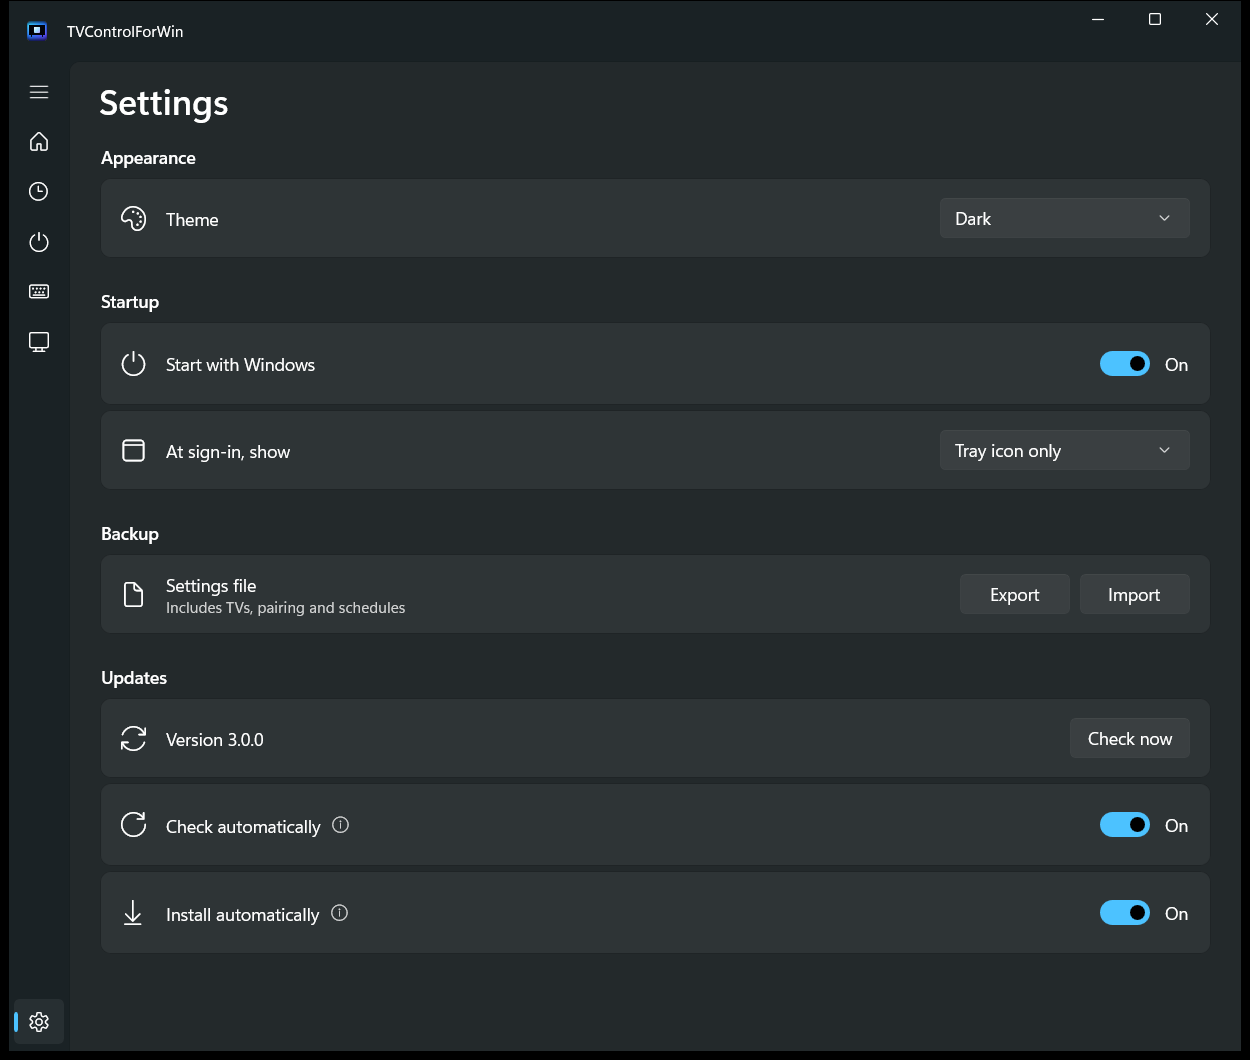
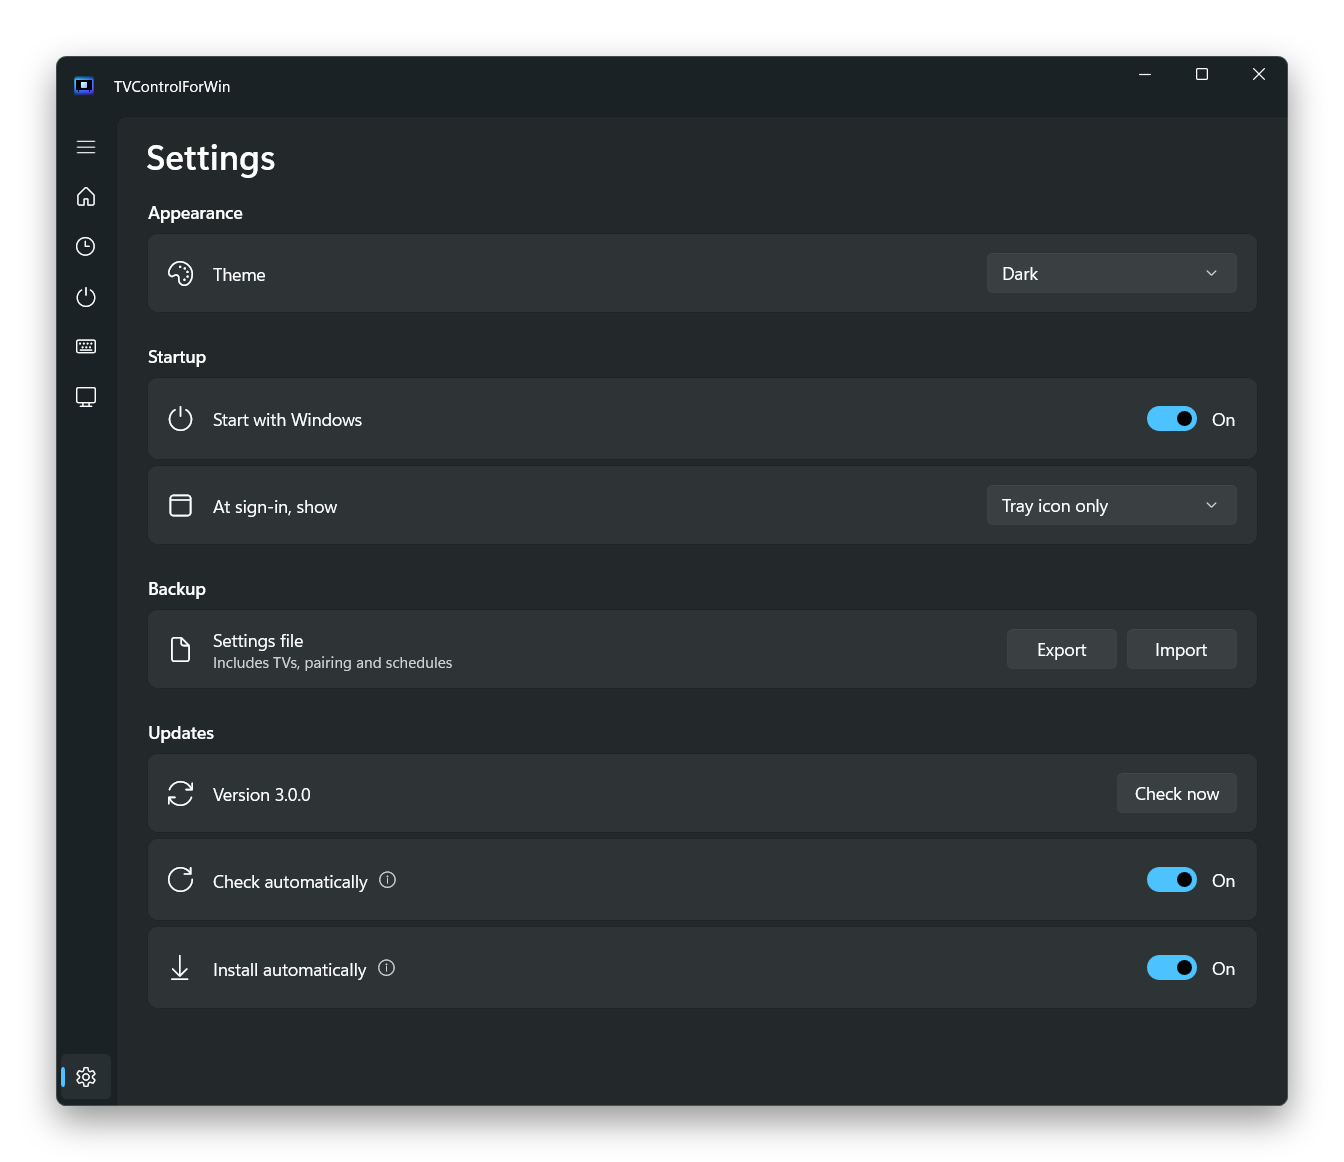
README: Windows 11 style screenshots, overlay in the header, contributing guide
- Screenshots: black capture borders trimmed, rounded corners and a soft
  shadow, on a transparent background.
- The on-screen display, captured live, shown under the main screenshot.
- Download button with the same rounded look as the badges.
- Contributing section and CONTRIBUTING.md, with other TV brands first.

diff --git a/README.md b/README.md
@@ -18,11 +18,16 @@
 </p>
 
 <p align="center">
-  <a href="https://github.com/itsAllexB/TVControlForWin/releases/latest"><img src="https://img.shields.io/badge/Download-latest_version-0078D4?style=for-the-badge" alt="Download the latest version"></a>
+  <a href="https://github.com/itsAllexB/TVControlForWin/releases/latest"><img src="https://img.shields.io/badge/Download_latest_version-0078D4" alt="Download the latest version" height="36"></a>
 </p>
 
 <p align="center">
-  <img src="docs/screenshots/home.png" alt="TVControlForWin with two TVs" width="820">
+  <img src="docs/screenshots/home.png" alt="TVControlForWin with two TVs" width="860">
+</p>
+
+<p align="center">
+  <img src="docs/screenshots/overlay.png" alt="The brightness bar that appears when you press the shortcut" width="600"><br>
+  <sub>Press <code>Ctrl + Alt + ↑ / ↓</code> and a brightness bar slides in, just like the Windows volume one.</sub>
 </p>
 
 <p align="center">
@@ -31,7 +36,8 @@
   <a href="#install">Install</a> ·
   <a href="#set-up-your-tv">Set up your TV</a> ·
   <a href="#using-it">Using it</a> ·
-  <a href="#if-something-isnt-working">Help</a>
+  <a href="#if-something-isnt-working">Help</a> ·
+  <a href="#contributing">Contributing</a>
 </p>
 
 ## Why
@@ -121,11 +127,8 @@ Turning the TV *off* from the PC works without any of this.
 
 `Ctrl + Alt + ↑` and `Ctrl + Alt + ↓` change brightness by 10. On the **Hotkeys** page you
 can change the keys, the step, and whether the shortcut controls the TV under the mouse,
-all TVs, or always the same one.
-
-<p align="center">
-  <img src="docs/screenshots/overlay.png" alt="The on-screen brightness bar">
-</p>
+all TVs, or always the same one. The bar that appears can be moved, shown on a different
+screen, or switched off on the **On-screen display** page.
 
 ### Schedules and power
 
@@ -200,15 +203,21 @@ stay in `%LOCALAPPDATA%\TVControlForWin`; delete that folder too if you want the
 Still stuck? [Open an issue](https://github.com/itsAllexB/TVControlForWin/issues) and say
 which TV model you have.
 
-## For developers
+## Contributing
 
-Build with `pwsh -File build.ps1 -Configuration Debug -Run` (needs Visual Studio with the
-.NET desktop workload). How the app talks to each kind of TV, the project layout and the
-release steps are in [docs/development.md](docs/development.md). Ideas and plans live in
-[Todo.md](Todo.md).
+Contributions are welcome, and support for more TVs most of all.
 
-Want another TV brand supported? That's the most useful contribution, and
-[docs/development.md](docs/development.md#adding-a-tv-brand) says where to start.
+- **Have a TV that isn't supported, or a Google TV without the brightness slider?**
+  [Open an issue](https://github.com/itsAllexB/TVControlForWin/issues) with the model.
+  A plain "this works on my TV" report helps too.
+- **Want to add your TV's brand?** [Adding a TV brand](docs/development.md#adding-a-tv-brand)
+  shows where it plugs in, and how the TCL brightness call was found.
+- **Found a bug or have an idea?** Issues and pull requests are both fine.
+
+[CONTRIBUTING.md](CONTRIBUTING.md) has the details. To build, run
+`pwsh -File build.ps1 -Configuration Debug -Run` (needs Visual Studio with the .NET desktop
+workload). How the app talks to each kind of TV and how the project is laid out is in
+[docs/development.md](docs/development.md), and plans live in [Todo.md](Todo.md).
 
 ## License
 

diff --git a/CONTRIBUTING.md b/CONTRIBUTING.md
@@ -1,0 +1,75 @@
+# Contributing to TVControlForWin
+
+Thanks for wanting to help. Contributions of every size are welcome, and the most useful
+one is getting more TVs to work.
+
+## Ways to help
+
+### Tell us about your TV
+
+No code needed. [Open an issue](https://github.com/itsAllexB/TVControlForWin/issues) and
+say:
+
+- the brand, model and year, and the software it runs (webOS, Google TV, Android TV…);
+- what works and what doesn't: finding it, pairing, on and off, brightness;
+- anything you had to change on the TV to make it work.
+
+"Everything works on my LG G4" is just as useful as a problem. It tells the next person
+with that TV what to expect.
+
+### Add brightness for another Google TV brand
+
+On and off already work on every Google TV and Android TV. Brightness works on TCL only,
+because each brand keeps its picture settings behind a different private call.
+
+The connection, the one-time setup on the TV and the safety checks already exist
+(`Services/AdbBrightness.cs`). What's missing for your brand is its equivalent of
+`Services/AdbTclBacklight.cs`: how to read and set the backlight from an ADB shell.
+
+How the TCL call was found, and how you could find yours:
+
+1. Turn on USB debugging on the TV and connect with `adb connect <tv-ip>`.
+2. Run `adb logcat`, then move the TV's own brightness slider and watch what scrolls by.
+   The service that handles the slider usually names itself.
+3. Look it up with `adb shell service list`, and try reading the current value from it.
+4. Only then try setting a value, and watch the screen. A call that reports success is
+   not the same as a panel that changed.
+
+If you get that far but don't want to write the code, an issue with what you found is
+already most of the work.
+
+### Add a new kind of TV
+
+A TV with its own protocol (Samsung, Roku, Fire TV…) needs a driver. Every TV is driven
+through one interface, `ITvController`, so the rest of the app doesn't have to change.
+[docs/development.md](docs/development.md#adding-a-tv-brand) explains where a driver plugs in.
+
+### Fix a bug or improve something
+
+Issues and pull requests are both fine. For anything bigger than a fix, an issue first
+saves you from building something that doesn't fit.
+
+## Building
+
+```powershell
+pwsh -File build.ps1 -Configuration Debug -Run
+```
+
+You need the .NET 8 SDK and Visual Studio with the **.NET desktop development** workload.
+Use the script, not `dotnet build`. More in [docs/development.md](docs/development.md),
+including how to run a second copy on throwaway data next to the one you use.
+
+## Pull requests
+
+- Keep each one to a single change.
+- Say which TV you tested on, and what you could not test.
+- Text on screen stays short. Longer explanations go behind an "i" button
+  (`Controls/InfoTip`).
+- When the app changes something on a TV, read it back. Don't trust a call just because
+  it returned.
+- New source files start with `// SPDX-License-Identifier: AGPL-3.0-or-later`.
+
+## License
+
+TVControlForWin is licensed under [AGPL-3.0-or-later](LICENSE). By contributing, you agree
+that your contribution is licensed the same way.
